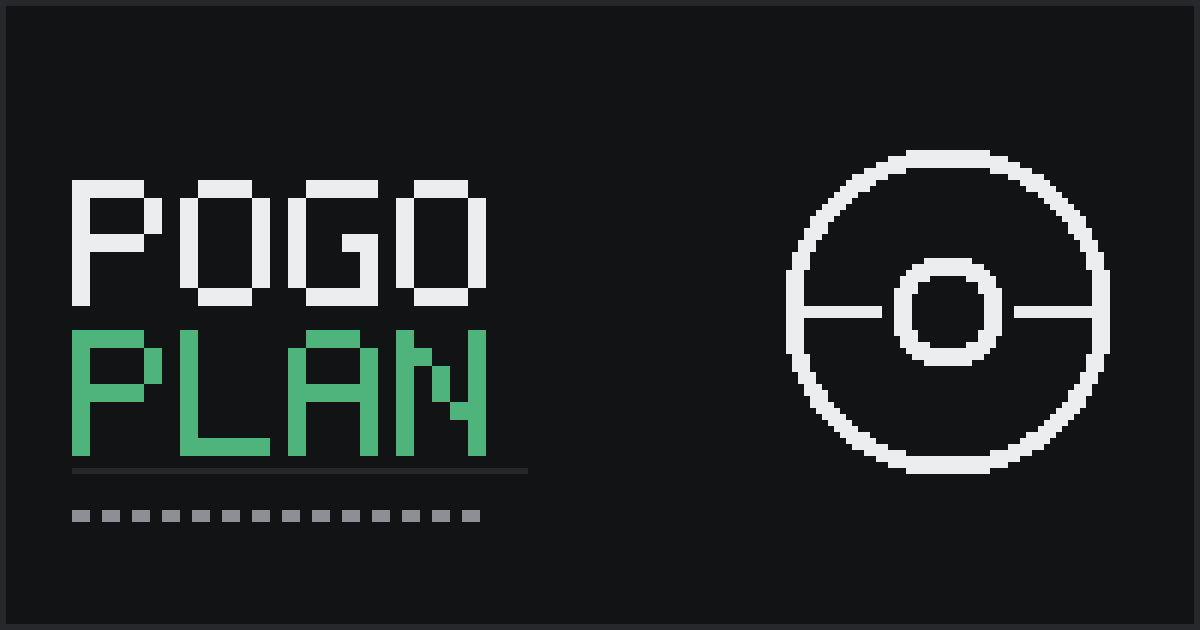
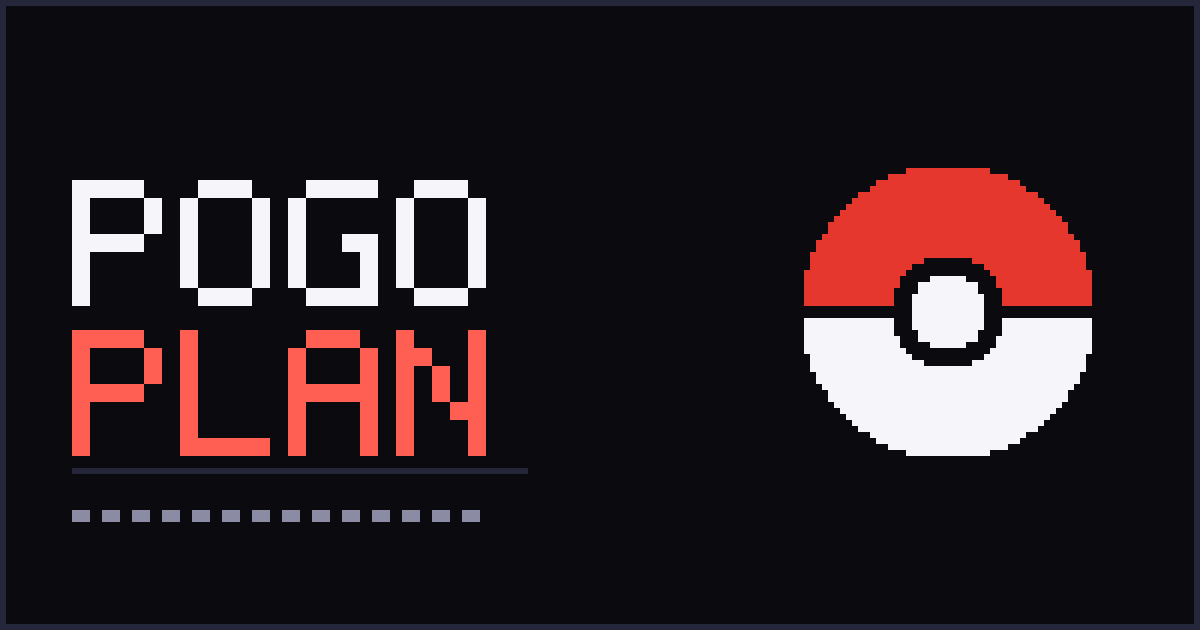
v3.7.0 키 컬러를 원작의 몬스터볼 빨강으로
스플래시의 몬스터볼과 공유 카드 그림이 이미 이 빨강인데 브랜드만 인디고로 남아,
같은 화면에서 셋이 따로 놀고 있었다.

팔레트 (styles/tokens.css)
  --brand · --accent  #6366f1 인디고 → #d63024   (다크 #818cf8 → #ff5f52)
  --brand-2           #a78bfa 바이올렛 → #b3231b  같은 계열 한 단 진한 빨강
  --warn              #dc2626 빨강 → #9f1239      빨강을 브랜드에 내준다. 여전히 붉지만
                                                  어둡기·색기가 갈려 "선택됨" 과 안 헷갈린다
  --point             #ec4899 핑크 → #2f6fd0      브랜드 빨강 바로 옆 색이라 못 쓴다.
                                                  빨강의 정반대라 특별한 것이 확실히 튀고,
                                                  옆에 놓이는 A티어(앰버)와도 안 싸운다
  --good(teal) · --caution(앰버) 는 그대로

그림과 글자의 빨강을 반 단 가른다
- 그림(스플래시 공 · 앱 아이콘 · 공유 카드)은 원작 값 #e5372e
- 글자로 쓰이는 토큰은 #d63024 — #e5372e 는 밝은 바탕(#fafafa)에서 명암비 4.1 이라
  작은 글씨가 흐려 보인다 (#d63024 는 4.7)

앱 아이콘을 채운 몬스터볼로 (backend/icon_gen.py)
- 선으로만 그린 흰 공은 어느 서비스인지 말해 주지 않는다.
  위 빨강 · 아래 흰색 · 가운데 검은 띠, 원작 그대로
- 띠는 단추 자리를 비운다 — 가로지르면 단추가 반으로 잘려 몬스터볼로 안 읽힌다
- 바탕도 v3.0.0 잉크블랙(#0a0a0f)으로. (18,19,21) 에 멈춰 있었다

공유 카드도 채운 몬스터볼 (backend/og_gen.py)
- 팔레트가 두 번 바뀌는 동안(v3.0.0 인디고 · v3.7.0 빨강) 이 파일만
  v2 시절 초록(#4fb37c)에 멈춰 있었다. 토큰 다섯을 현재 값으로
- 카카오톡·디스코드 미리보기는 작게 뜨는데, 선으로만 그린 공은 그 크기에서 그냥 동그라미다

수정
- theme-color 메타 두 줄이 v2 값(#ffffff · #121315)에 멈춰 있었다 → #fafafa · #0a0a0f
- 바탕을 한 단 더 죽였다 — 빨강은 인디고보다 눈에 잘 띈다.
  몬스터볼 투명도 .10 → .08, 홈 히어로 점 격자 24% → 16%

회귀 20개 전부 통과(147초). nav.js 의 팔레트 검사를 새 값으로 옮기고 둘을 더했다 —
--warn 이 브랜드와 다른 빨강인지, --point 가 빨강의 반대쪽인지

Claude-Session: https://claude.ai/code/session_01Xpam839c3kE5VjCkKzpNQJ

Changed region(s): [[0.6475, 0.2111, 0.925, 0.754], [0.0617, 0.5127, 0.4317, 0.7238]]

diff --git a/frontend/styles/tokens.css b/frontend/styles/tokens.css
@@ -12,21 +12,37 @@
          파란 기가 도는 슬레이트보다 차분하고, 포켓몬 타입색 열여덟 개와 덜 싸운다.
      (3) 브랜드가 초록에서 **인디고**로 간다. 레퍼런스의 성격을 결정하는 색이다.
          초록은 --t-grass(풀 타입)로만 남는다 — 브랜드색과 타입색이 같아서 생기던
-         "이게 선택 표시인가 풀 타입인가" 혼동도 같이 사라진다. */
+         "이게 선택 표시인가 풀 타입인가" 혼동도 같이 사라진다.
+
+   2026-09-12 v3.7.0 브랜드가 인디고에서 **몬스터볼 빨강**으로 간다 (#e5372e).
+     도트 디자인(v3.6.0)의 키 컬러를 원작에 맞춘다. 스플래시의 몬스터볼·공유 카드 그림이
+     이미 이 빨강이라, 브랜드만 인디고로 남아 셋이 따로 놀고 있었다.
+
+     빨강이 브랜드를 가져가면 자리가 겹치는 색이 둘이다. 둘 다 반 칸씩 옮긴다.
+       --warn   빨강 → **자주빛 진홍**(#9f1239). "나쁨" 은 여전히 붉지만, 브랜드의 밝은
+                주황빛 빨강과 어둡기·색기가 갈려 "선택됨" 과 안 헷갈린다.
+       --point  핑크 → **파랑**(#2f6fd0). 브랜드 빨강 바로 옆 색이라 못 쓴다.
+                빨강의 정반대라 "특별한 것(메가·전설·S티어)" 이 확실히 튀고,
+                바로 옆에 놓이는 A티어(--caution 앰버)와도 안 싸운다.
+     --brand-2 는 같은 계열의 진한 빨강으로 둔다 — 한 서비스 안의 다른 갈래(PvP)라
+     계열까지 바꿀 이유가 없다. --good(teal) · --caution(앰버) 은 그대로다. */
 :root {
   --bg: #fafafa; --fg: #0a0a0f; --muted: #64647a; --line: #e5e5eb; --surface: #ffffff; --hover: #f2f2f5;
   --line-2: #d4d4dc;    /* 한 단 진한 테두리 — 눌린 칸·활성 입력처럼 경계를 세워야 할 때 */
   --ink-2: #2a2a35;     /* 본문보다 한 단 흐린 글자 (카드 안 보조 문장) */
   --ink-4: #9b9bb0;     /* 가장 흐린 글자 — 자리표시·비활성 */
   /* 의미 색 — 이름이 곧 쓰임새다 */
-  --brand: #6366f1;     /* 브랜드 · 지금 보고 있는 곳 */
-  --brand-2: #a78bfa;   /* 보조 — 다른 갈래를 구분할 때 (PvP 등) */
-  --point: #ec4899;     /* 포인트 — 특별한 것 (메가·전설) */
-  --warn: #dc2626;      /* 경고 — 나쁨(하향·약점)·삭제 */
-  --caution: #d97706;   /* 주의 — 대기·즐겨찾기 ★ */
+  /* 몬스터볼 빨강. 그림(스플래시 공 · 앱 아이콘 · 공유 카드)은 원작 값 #e5372e 를 쓰고,
+     **글자로 쓰이는** 이 토큰만 반 단 어둡게 잡았다 — #e5372e 는 밝은 바탕(#fafafa)에서
+     명암비 4.1 이라 작은 글씨가 흐려 보인다. #d63024 는 4.7 로 기준을 넘으면서 같은 빨강이다 */
+  --brand: #d63024;     /* 브랜드 · 지금 보고 있는 곳 */
+  --brand-2: #b3231b;   /* 보조 — 다른 갈래를 구분할 때 (PvP 등). 같은 계열 한 단 진한 빨강 */
+  --point: #2f6fd0;     /* 포인트 — 특별한 것 (메가·전설·S티어). 빨강의 정반대 */
+  --warn: #9f1239;      /* 경고 — 나쁨(하향·약점)·삭제. 브랜드보다 어둡고 자주빛이 돈다 */
+  --caution: #d97706;   /* 주의 — 대기·A티어 */
   --off: #9b9bb0;       /* 비활성 */
   --good: #0d9488;      /* 좋음(상향·내성) — 전에는 브랜드 초록이 겸했다. 레퍼런스의 teal */
-  --accent: #6366f1;    /* = --brand. 예전부터 쓰던 이름이라 그대로 둔다 */
+  --accent: #d63024;    /* = --brand. 예전부터 쓰던 이름이라 그대로 둔다 */
 
   --t-normal:#a8a77a; --t-fire:#ee8130; --t-water:#6390f0; --t-grass:#7ac74c; --t-electric:#f7d02c; --t-ice:#96d9d6;
   --t-fighting:#c22e28; --t-poison:#a33ea1; --t-ground:#e2bf65; --t-flying:#a98ff3; --t-psychic:#f95587; --t-bug:#a6b91a;
@@ -57,21 +73,22 @@
   --shadow-hard: 0.4rem 0.4rem 0 0;   /* 흐림 0 — 색은 쓰는 쪽에서 붙인다 */
 }
 /* 다크 — 2026-09-12 v3.0.0 레퍼런스의 잉크블랙(#0a0a0f). 완전한 검정이 아니라 보라 기가
-   아주 옅게 도는 검정이라, 그 위에 올라가는 인디고·바이올렛이 탁해지지 않는다.
+   아주 옅게 도는 검정이라, 그 위에 올라가는 빨강이 탁해지지 않는다.
+   어두운 바탕에서는 #e5372e 가 무거워 보여 한 단 밝은 #ff5f52 를 쓴다.
    라이트와 같은 규칙으로 바탕(#0a0a0f) < 카드(#16161f) < 눌림(#1c1c28) 순으로 밝아진다 */
 @media (prefers-color-scheme: dark) {
   :root:not([data-theme="light"]) {
     --bg:#0a0a0f; --fg:#f5f5fa; --muted:#8b8ba3; --line:#26263a; --surface:#16161f; --hover:#1c1c28;
     --line-2:#33334d; --ink-2:#c9c9d6; --ink-4:#5c5c73;
-    --brand:#818cf8; --brand-2:#a78bfa; --point:#f472b6; --warn:#ef4444; --caution:#f59e0b; --off:#5c5c73;
-    --good:#2dd4bf; --accent:#818cf8;
+    --brand:#ff5f52; --brand-2:#ff8a80; --point:#6f9df0; --warn:#f43f5e; --caution:#f59e0b; --off:#5c5c73;
+    --good:#2dd4bf; --accent:#ff5f52;
   }
 }
 :root[data-theme="dark"] {
   --bg:#0a0a0f; --fg:#f5f5fa; --muted:#8b8ba3; --line:#26263a; --surface:#16161f; --hover:#1c1c28;
   --line-2:#33334d; --ink-2:#c9c9d6; --ink-4:#5c5c73;
-  --brand:#818cf8; --brand-2:#a78bfa; --point:#f472b6; --warn:#ef4444; --caution:#f59e0b; --off:#5c5c73;
-  --good:#2dd4bf; --accent:#818cf8;
+  --brand:#ff5f52; --brand-2:#ff8a80; --point:#6f9df0; --warn:#f43f5e; --caution:#f59e0b; --off:#5c5c73;
+  --good:#2dd4bf; --accent:#ff5f52;
 }
 
 /* 2026-09-11 v2.59.0 목록 격자 사다리 — 한 줄에 몇 개를 놓을지 여기 한 곳에서만 정한다.

diff --git a/tests/e2e/nav.js b/tests/e2e/nav.js
@@ -66,9 +66,12 @@ const ok = (name, cond, extra = '') => results.push([cond ? 'PASS' : 'FAIL', nam
   ok('토큰 --surface (흰 카드 #ffffff)', design.surface === '#ffffff', design.surface);
   ok('토큰 --line (#e5e5eb)', design.line === '#e5e5eb', design.line);
   ok('토큰 --muted (보라 기 도는 회색 #64647a)', design.muted === '#64647a', design.muted);
-  // 2026-09-12 v3.0.0 스타일 레퍼런스(yceffort.kr)의 인디고로 갈아끼웠다.
-  // 초록은 --t-grass(풀 타입)로만 남는다 — 브랜드색과 타입색이 같아 생기던 혼동도 같이 사라졌다
-  ok('토큰 --accent = 브랜드 인디고 (#6366f1)', design.accent === '#6366f1', design.accent);
+  // 2026-09-12 v3.7.0 키 컬러를 원작의 몬스터볼 빨강으로 (#e5372e). 스플래시 공·앱 아이콘·
+  // 공유 카드가 모두 이 값이라, 브랜드만 다른 색이면 같은 서비스로 안 읽힌다.
+  // 빨강이 브랜드를 가져가면서 --warn 은 자주빛 진홍으로, --point 는 파랑으로 반 칸씩 옮겼다
+  ok('토큰 --accent = 몬스터볼 빨강 (#d63024)', design.accent === '#d63024', design.accent);
+  ok('토큰 --warn 은 브랜드와 다른 빨강 (#9f1239)', design.warn === '#9f1239', design.warn);
+  ok('토큰 --point 는 빨강의 반대쪽 (#2f6fd0)', design.point === '#2f6fd0', design.point);
   ok('의미 색 여섯 벌 있음', ['brand', 'brand-2', 'point', 'warn', 'caution', 'off'].every((k) => design[k]),
     JSON.stringify({ brand: design.brand, warn: design.warn }));
   ok('토큰 --tap 이 손가락 크기 44px', design.tapPx === 44, `${design.tap} = ${design.tapPx}px`);
@@ -199,7 +202,7 @@ const ok = (name, cond, extra = '') => results.push([cond ? 'PASS' : 'FAIL', nam
   // 2026-09-09 v2.40.0 항목이 [아이콘][이름] 두 조각이라 이름 칸(.drawer__label)만 본다
   ok('드로어 현재 항목 표시', (await page.locator('.nav-menu [aria-current="page"] .drawer__label').textContent()) === '배틀 · PvP');
   const cur = await page.locator('.nav-menu [aria-current="page"]').evaluate((n) => getComputedStyle(n).color);
-  ok('현재 항목 = --accent (브랜드 인디고)', cur === 'rgb(99, 102, 241)', cur);
+  ok('현재 항목 = --accent (몬스터볼 빨강)', cur === 'rgb(214, 48, 36)', cur);
   ok('드로어 서비스 홈 항목', (await page.locator('.nav-menu a .drawer__label').first().textContent()) === '서비스 홈');
   await page.click('.nav-menu a:has-text("서비스 홈")');
   await page.waitForTimeout(400);
@@ -447,7 +450,8 @@ const ok = (name, cond, extra = '') => results.push([cond ? 'PASS' : 'FAIL', nam
     return { bg: cs.getPropertyValue('--bg').trim(), accent: cs.getPropertyValue('--accent').trim() };
   });
   ok('다크 --bg (잉크블랙 #0a0a0f)', dtok.bg === '#0a0a0f', dtok.bg);
-  ok('다크 --accent (#818cf8)', dtok.accent === '#818cf8', dtok.accent);
+  // 어두운 바탕에서는 #e5372e 가 무거워 보여 한 단 밝은 빨강을 쓴다
+  ok('다크 --accent (#ff5f52)', dtok.accent === '#ff5f52', dtok.accent);
   await dark.close();
 
   ok('페이지 오류 없음', errors.length === 0, errors.join(' | ').slice(0, 200));

diff --git a/frontend/scripts/components/release.js b/frontend/scripts/components/release.js
@@ -7,12 +7,18 @@
 // 즉 새 패치노트를 알리는 방법은 아래 RELEASE_VER 문자열을 바꾸는 것 하나뿐이고,
 // 날짜나 항목 개수를 비교하지 않으므로 문구만 손볼 때는 뱃지가 뜨지 않는다.
 // 패치노트 페이지를 열면 markReleaseSeen()이 현재 버전을 기록해 빨간 점이 사라진다.
-const RELEASE_VER = '2026-09-12-13';  // v3.6.1 도트 디자인 다듬기
+const RELEASE_VER = '2026-09-12-14';  // v3.7.0 키 컬러 빨강
 const RELEASE_HIDE_KEY = 'pogo_release_hide';
 // 패치노트 데이터: 최신 날짜가 위로 오도록 직접 정렬해서 적는다(코드에서 다시 정렬하지 않는다).
 // 사용자가 그대로 읽는 문구이므로 표현을 임의로 다듬지 않고, 지난 항목도 기록으로 남겨 둔다
 // 2026-09-09 v2.37.0 의 봇 트래픽 집계 제외는 사용자에게 보일 변화가 없어(집계만 영향) 여기 적지 않는다
 const RELEASE_NOTES = [
+  { date: '2026-09-12 · v3.7.0', items: [
+    '**키 컬러가 몬스터볼 빨강이 됐어요** — 원작 그 빨강입니다. 선택 표시 · 링크 · 지금 보고 있는 메뉴가 전부 이 색이에요',
+    '**앱 아이콘이 채운 몬스터볼로 바뀌었어요** — 선으로만 그린 흰 공이었는데, 홈 화면에 놓이는 그림이라 한눈에 읽혀야 해서요. 위 빨강 · 아래 흰색 · 가운데 검은 띠, 원작 그대로입니다',
+    '**링크 미리보기 카드도 같이 바꿨어요** — 카카오톡 · 디스코드에 붙였을 때 뜨는 그림입니다. 팔레트가 두 번 바뀌는 동안 이 그림만 옛 초록에 멈춰 있었어요',
+    '빨강이 키 컬러로 오면서 자리가 겹치는 색 둘을 옮겼어요 — **약점 · 하향 표시**는 한 단 어두운 자주빛 빨강으로, **메가 · 전설 · S티어 표시**는 파랑으로. 선택 표시와 안 헷갈리게 하려는 거예요',
+  ] },
   { date: '2026-09-12 · v3.6.1', items: [
     '**바탕을 흐리게 깔았어요** — 또렷한 점 격자가 글자 뒤에서 그대로 비쳐 읽기가 힘들었습니다. 점은 가장자리를 흐리게, 농도는 낮추고, 큰 몬스터볼에는 흐림을 걸었어요',
     '**글씨가 진짜 도트로 보여요** — 제목과 포켓몬 이름에 굵기를 주고 있었는데, 도트 글꼴에는 굵은 획이 없어서 브라우저가 획을 덧그리고 있었습니다. 그래서 도트가 번져 흐린 고딕처럼 보였어요',

diff --git a/frontend/styles/pixel.css b/frontend/styles/pixel.css
@@ -88,6 +88,8 @@ html:not(#_) .px-ball::after {
 .note .pxi, .prose .pxi, .detail__foot .pxi, .dex__hint .pxi { width: 1.4rem; height: 1.4rem; }
 /* 접이줄 머리는 flex 라 아이콘 뒤 빈칸이 통째로 사라진다 — 사이를 여기서 벌린다 */
 .detail__acc summary .pxi { margin-right: 0.6rem; }
+/* 빨강 칸(1)은 브랜드(몬스터볼 빨강)를 따른다 — 도감 기기·카드 무늬가 키 컬러와 같아야 한다 */
+:root { --pxi-1: var(--brand); }
 /* 흰 칸(3)은 판 색에 글자색을 한 스푼 섞는다. 판 색 그대로면 흰 카드 위에서 알(🥚)의
    속이 통째로 사라져 테두리만 남는다 — 어두운 화면에서도 같은 식으로 한 단 밝아진다 */
 :root { --pxi-3: color-mix(in srgb, var(--fg) 12%, var(--surface)); }
@@ -229,12 +231,12 @@ h1, h2, .page-head h2, .detail__name, .home__intro h2, .page__sec { line-height:
 .px-ball {
   position: absolute;
   border-radius: 50%;
-  opacity: .1;
+  opacity: .08;
   box-sizing: border-box;
   filter: blur(0.6rem);
-  /* 위 빨강 · 아래 흰색 · 테두리는 글자색 */
+  /* 위 빨강 · 아래 흰색 · 테두리는 글자색 — 빨강은 브랜드(=몬스터볼 빨강) 그 색이다 */
   border: var(--ball-w) solid var(--fg);
-  background: linear-gradient(var(--point) 0 50%, var(--surface) 50% 100%);
+  background: linear-gradient(var(--brand) 0 50%, var(--surface) 50% 100%);
 }
 /* 가운데 띠 — 테두리 두께만큼 밖으로 빼야 공이 한 줄로 이어진다 */
 .px-ball::before {
@@ -283,7 +285,7 @@ h1, h2, .page-head h2, .detail__name, .home__intro h2, .page__sec { line-height:
   .home__intro {
     border-width: var(--px);
     background:
-      radial-gradient(color-mix(in srgb, var(--brand) 24%, transparent) var(--px), transparent var(--px))
+      radial-gradient(color-mix(in srgb, var(--brand) 16%, transparent) var(--px), transparent var(--px))
         0 0 / 0.8rem 0.8rem,
       var(--surface);
   }

diff --git a/frontend/index.html b/frontend/index.html
@@ -92,8 +92,9 @@
     if (t === 'light' || t === 'dark') document.documentElement.setAttribute('data-theme', t);
   } catch (e) {}
 </script>
-<meta name="theme-color" media="(prefers-color-scheme: light)" content="#ffffff">
-<meta name="theme-color" media="(prefers-color-scheme: dark)" content="#121315">
+<!-- 2026-09-12 v3.7.0 팔레트가 두 번 바뀌는 동안 이 두 줄만 v2 시절 값에 멈춰 있었다 (tokens.css --bg) -->
+<meta name="theme-color" media="(prefers-color-scheme: light)" content="#fafafa">
+<meta name="theme-color" media="(prefers-color-scheme: dark)" content="#0a0a0f">
 <meta name="apple-mobile-web-app-capable" content="yes">
 <meta name="apple-mobile-web-app-title" content="POGO PLAN">
 <!-- 2026-09-03 GA4 사용 통계: backend/build.py의 GA_ID가 채워진 빌드에만 삽입됨 -->

diff --git a/backend/icon_gen.py b/backend/icon_gen.py
@@ -10,8 +10,13 @@ import zlib
 import os
 
 # 프런트 다크 테마의 CSS 변수와 같은 값을 쓴다 (RGBA)
-BACKGROUND_COLOR = (18, 19, 21, 255)       # --bg 다크
-FOREGROUND_COLOR = (236, 237, 238, 255)    # --fg 다크
+# 2026-09-12 v3.7.0 키 컬러를 몬스터볼 빨강으로 옮기면서 아이콘도 **채운 몬스터볼**로 바꿨다.
+# 선으로만 그린 흰 공은 어느 서비스인지 말해 주지 않는다 — 홈 화면에 놓이는 그림이라
+# 한눈에 "포켓몬" 으로 읽혀야 한다. 위 빨강 · 아래 흰색 · 가운데 검은 띠, 원작 그대로다
+BACKGROUND_COLOR = (10, 10, 15, 255)       # --bg 다크 (v3.0.0 잉크블랙)
+FOREGROUND_COLOR = (245, 245, 250, 255)    # --fg 다크 — 공의 아래 절반
+BRAND_COLOR = (229, 55, 46, 255)           # --brand 몬스터볼 빨강 (#e5372e) — 공의 위 절반
+STROKE_COLOR = (10, 10, 15, 255)           # 테두리·띠. 바탕과 같은 값이라 공만 떠 보인다
 
 
 # size × size 몬스터볼 아이콘을 그려 PNG 원본 스캔라인 바이트를 돌려준다.
@@ -30,13 +35,22 @@ def render_raw_scanlines(size):
             delta_y = y - center_y + 0.5
             distance = (delta_x * delta_x + delta_y * delta_y) ** 0.5
             color = BACKGROUND_COLOR
-            # 바깥 원: 반지름에서 선 두께의 절반 안쪽까지
+            # 안쪽부터 바깥으로 한 겹씩 얹는다 — 나중에 칠한 것이 위로 온다
+            if distance < outer_radius + stroke_width / 2:
+                # 공의 몸통: 가운데 띠를 기준으로 위는 빨강, 아래는 흰색
+                color = BRAND_COLOR if delta_y < 0 else FOREGROUND_COLOR
+            # 바깥 테두리: 반지름에서 선 두께의 절반 안쪽까지
             on_outer_ring = abs(distance - outer_radius) < stroke_width / 2
-            # 가운데 가로줄: 원 안쪽에서만 그리고, 버튼 주변은 살짝 여유(0.9)를 두고 비운다
-            on_center_band = abs(delta_y) < stroke_width / 2 and distance < outer_radius and abs(delta_x) > button_radius + stroke_width * 0.9
+            # 가운데 가로줄: 원 안쪽에서만 그리고, 버튼 자리는 비운다 —
+            # 띠가 단추를 가로지르면 단추가 반으로 잘려 몬스터볼로 안 읽힌다
+            on_center_band = (abs(delta_y) < stroke_width / 2 and distance < outer_radius
+                              and abs(delta_x) > button_radius + stroke_width * 0.4)
             # 가운데 버튼 테두리
-            on_button = abs(distance - button_radius) < stroke_width / 2
-            if on_outer_ring or on_center_band or on_button:
+            on_button_ring = abs(distance - button_radius) < stroke_width / 2
+            if on_outer_ring or on_center_band or on_button_ring:
+                color = STROKE_COLOR
+            # 버튼 속은 흰색 — 띠가 지나가도 단추가 뚫려 보여야 몬스터볼로 읽힌다
+            elif distance < button_radius:
                 color = FOREGROUND_COLOR
             scanline.extend(color)
         raw_scanlines.extend(scanline)

diff --git a/backend/og_gen.py b/backend/og_gen.py
@@ -26,11 +26,14 @@ WIDTH, HEIGHT = 1200, 630
 CELL = 6                      # 도트 한 칸 = 6px. 200 × 105 칸짜리 격자가 된다
 
 # 다크 테마 토큰과 같은 값 (frontend/styles/tokens.css)
-BG = (18, 19, 21)
-FG = (236, 237, 238)
-MUTED = (140, 143, 148)
-ACCENT = (79, 179, 124)       # --accent 다크
-LINE = (38, 40, 43)
+# 2026-09-12 v3.7.0 팔레트가 두 번 바뀌는 동안(v3.0.0 인디고 · v3.7.0 몬스터볼 빨강)
+# 이 파일만 v2 시절 초록에 멈춰 있었다. 공유 카드가 서비스와 다른 색이면 눌러 들어온 순간 어긋난다
+BG = (10, 10, 15)             # --bg 다크 (잉크블랙)
+FG = (245, 245, 250)          # --fg 다크
+MUTED = (139, 139, 163)       # --muted 다크
+ACCENT = (255, 95, 82)        # --accent 다크 — 몬스터볼 빨강
+LINE = (38, 38, 58)           # --line 다크
+BALL_RED = (229, 55, 46)      # --brand 라이트 (#e5372e) — 공의 위 절반은 원작 그대로
 
 # 5×7 픽셀 글꼴 — 필요한 글자만 직접 찍는다. 각 줄의 '#' 이 켜진 픽셀
 FONT = {
@@ -77,7 +80,9 @@ def draw_text(canvas, text, cx, cy, scale, color, spacing=1):
 
 
 # 몬스터볼 — icon_gen.py 와 같은 모양이되 도트 격자에 맞춰 계단지게 그린다.
-# 매끈한 원을 그리면 이 이미지 안에서 그것만 튄다
+# 매끈한 원을 그리면 이 이미지 안에서 그것만 튄다.
+# 2026-09-12 v3.7.0 선으로만 그리던 것을 **채운다** — 위 빨강 · 아래 흰색 · 가운데 검은 띠.
+# 카카오톡·디스코드 미리보기는 작게 뜨는데, 선으로만 그린 공은 그 크기에서 그냥 동그라미다
 def draw_ball(canvas, center_cx, center_cy, radius_cells):
     stroke = max(2, radius_cells // 7)
     button = max(2, radius_cells // 3)
@@ -85,11 +90,18 @@ def draw_ball(canvas, center_cx, center_cy, radius_cells):
         for cx in range(center_cx - radius_cells - 1, center_cx + radius_cells + 2):
             dx, dy = cx - center_cx + 0.5, cy - center_cy + 0.5
             dist = (dx * dx + dy * dy) ** 0.5
+            if dist > radius_cells + stroke / 2:
+                continue
+            # 안쪽부터 바깥으로 한 겹씩 — 나중에 칠한 것이 위로 온다
+            color = BALL_RED if dy < 0 else FG
             on_ring = abs(dist - radius_cells) < stroke / 2
-            on_band = abs(dy) < stroke / 2 and dist < radius_cells and abs(dx) > button + stroke
-            on_button = abs(dist - button) < stroke / 2
-            if on_ring or on_band or on_button:
-                cell_rect(canvas, cx, cy, 1, 1, FG)
+            on_band = abs(dy) < stroke / 2 and dist < radius_cells and abs(dx) > button + stroke * 0.4
+            on_button_ring = abs(dist - button) < stroke / 2
+            if on_ring or on_band or on_button_ring:
+                color = BG            # 테두리·띠는 바탕색 — 공만 떠 보인다
+            elif dist < button:
+                color = FG            # 단추 속은 흰색
+            cell_rect(canvas, cx, cy, 1, 1, color)
 
 
 def write_png(canvas, path):

diff --git a/backend/build.py b/backend/build.py
@@ -110,7 +110,7 @@ json.dump(pvp_all, open('data/pvp_all.json', 'w', encoding='utf-8'), ensure_asci
 
 # ── frontend/ 의 CSS·JS를 순서대로 인라인해 단일 dist/index.html 조립 ──
 # 순서가 곧 캐스케이드(CSS)·실행 순서(JS)이므로 새 파일은 여기 목록에 추가
-APP_VERSION = 'v3.6.1'  # 도트 디자인 다듬기 — 바탕 흐리기 · 가짜 굵기 제거 · 글씨·여백 검수
+APP_VERSION = 'v3.7.0'  # 키 컬러를 원작의 몬스터볼 빨강으로 · 앱 아이콘·공유 카드도 채운 몬스터볼
 # 2026-09-05 v2.7.3 빌드 채널 — 'prod'(기본) / 'dev'. dev 브랜치 워크플로(.github/workflows/deploy-dev.yml)가 BUILD_CHANNEL=dev 로 부른다.
 # dev 빌드는 (1) 버전 배지에 -dev 를 붙여 화면에서 구분되고 (2) GA 스니펫을 넣지 않아 통계가 섞이지 않고
 # (3) robots.txt 를 전부 차단 + <meta name="robots" content="noindex"> 로 검색 색인을 막는다. 나머지는 prod 와 동일

diff --git a/README.md b/README.md
@@ -46,6 +46,7 @@
 
 | 버전 | 날짜 | 내용 |
 |---|---|---|
+| **v3.7.0** | 2026-09-12 | **키 컬러를 원작의 몬스터볼 빨강으로** — 스플래시 공·공유 카드가 이미 이 빨강인데 브랜드만 인디고라 셋이 따로 놀았다. `--brand`·`--accent` `#6366f1` → `#d63024`(다크 `#ff5f52`). 빨강이 브랜드를 가져가면서 자리가 겹치는 색 둘을 반 칸씩 옮겼다 — `--warn` `#dc2626` → `#9f1239`(자주빛 진홍, "선택됨" 과 안 헷갈리게), `--point` `#ec4899` → `#2f6fd0`(파랑, 옆에 놓이는 A티어 앰버와 안 싸우게). **그림과 글자의 빨강을 반 단 가른다** — 그림은 원작 값 `#e5372e`, 글자 토큰은 `#d63024`(밝은 바탕 명암비 4.1 → 4.7). **앱 아이콘·공유 카드를 채운 몬스터볼로**(`icon_gen.py`·`og_gen.py`) — 선으로만 그린 흰 공은 작게 뜨면 그냥 동그라미다. `og_gen.py` 는 v2 시절 초록에 멈춰 있었다. **(수정)** `theme-color` 메타 두 줄도 v2 값이었다 |
 | **v3.6.1** | 2026-09-12 | **도트 디자인 다듬기** — 실제 화면을 보고 고쳤다. **(1) 바탕이 글자를 가렸다**: 배경을 `#px-bg` 한 겹으로 빼고 점은 흐린 원(`transparent 65%`)·농도 7% → 4.5%, 몬스터볼은 `blur(0.6rem)`. **(2) 도트 글꼴에 가짜 굵기가 씌워져 있었다** — 갈무리에는 Bold 가 없어 700 을 주면 브라우저가 획을 덧그린다(도트가 번져 흐린 고딕이 된다). 본문 전체 400, 산문(`Pretendard`)의 `b`·`strong` 만 700. **(3) 글씨·여백** — 제목 줄간 1.05 → 1.35배, 부제·안내문 11~12.5 → 13px, 꼬리 글씨 줄간 22 → 17px, 구역 제목 위 40 → 20px, 서비스 홈의 빈 컨트롤 줄(60px) 제거. **(4) 남아 있던 둥근 모서리** — 이름 목록 대신 뿌리에서 한 번에(`html:not(#_) body *`), 되돌리는 것은 프로필 사진·알림 점·바탕 몬스터볼뿐. **(5) 문단 속 이모지**를 도트 아이콘으로(과녁 추가, 31종) |
 | **v3.6.0** | 2026-09-12 | **도트(픽셀) 디자인** — 보여 주는 그림이 전부 96px 도트인데 껍데기만 매끈했다. 글꼴 갈무리(본문 Galmuri11 · 제목 Galmuri14 · 숫자 GalmuriMono11, 긴 산문만 Pretendard), 모서리 0 · 테두리 2px · 흐림 0 그림자 · `steps()` 전환. 규칙은 `styles/pixel.css` 한 파일 — `STYLES` 에서 한 줄 빼면 되돌아간다. **도트 아이콘 30종**(`components/pxicon.js`) — 메뉴 · 홈 타일 · 버튼의 이모지를 12칸 격자 SVG 로. 표의 키가 이모지라 호출부는 `pxIcon(icon) ?? icon` 한 줄. **바탕에 몬스터볼 둘** — `steps(8)` 로 느리게 떠다닌다(좁은 화면 · 동작 줄이기에서는 없음). **불러오는 화면**은 공을 던진 뒤의 기우뚱. **검색 색인 표시 제거** — 실서비스 `robots` 줄과 JSON-LD 를 뺐다(og · twitter · canonical 은 유지). **(수정)** `pixel.css` 가 `.app-nav` 의 `position: fixed` 를 덮어써 사이드바가 흘러내리던 것 |
 | **v3.5.0** | 2026-09-12 | **도감 안 검색 칸 제거** — v2.66.0 에 문구로 성격을 갈랐지만 생김새가 같은 입력칸 둘이 한 화면에 있는 것 자체가 문제였다. 헤더 검색이 어차피 포켓몬을 찾아 상세로 데려간다. 세대 칩은 그대로. 제목 옆으로 끌어올리던 음수 마진 규칙도 삭제. **D-MAX 보기 전환 추가** — 카드 격자를 줄로(`pogo_max_cols`, 레이드 PvE 와 같은 규칙). **[이번 주 보스] ↔ 타입 필터 32px → 8px** — `.boss__acc` 마진 12px + `.controls` 패딩 20px 이 겹쳐 있었다. 아코디언이 뜨는 화면에서만 좁힌다(`.is-on`) |

diff --git a/CHANGELOG.md b/CHANGELOG.md
@@ -5,6 +5,49 @@
 버전 규칙: `vMAJOR.MINOR.PATCH` — 큰 기능은 MINOR(두 번째 자리), 상세 기능·버그 수정은 PATCH(세 번째 자리) 증가.
 항목 종류: `추가` 새 기능 · `변경` 기존 동작 변경 · `수정` 버그 수정 · `데이터` 수동 데이터 갱신
 
+## v3.7.0 — 2026-09-12
+
+### 변경 — 키 컬러를 원작의 몬스터볼 빨강으로
+
+도트 디자인(v3.6.0)의 키 컬러를 원작에 맞춘다. 스플래시의 몬스터볼과 공유 카드 그림이 이미 이 빨강인데 브랜드만 인디고로 남아, 같은 화면에서 셋이 따로 놀고 있었다.
+
+| 토큰 | 전 | 후 | 왜 |
+| --- | --- | --- | --- |
+| `--brand` · `--accent` | `#6366f1` 인디고 | **`#d63024`** | 몬스터볼 빨강 |
+| `--brand-2` | `#a78bfa` 바이올렛 | `#b3231b` | 같은 계열 한 단 진한 빨강 — 한 서비스 안의 다른 갈래(PvP)라 계열까지 바꿀 이유가 없다 |
+| `--warn` | `#dc2626` 빨강 | `#9f1239` | 빨강을 브랜드에 내준다. "나쁨" 은 여전히 붉지만 어둡기·색기가 갈려 "선택됨" 과 안 헷갈린다 |
+| `--point` | `#ec4899` 핑크 | `#2f6fd0` | 브랜드 빨강 바로 옆 색이라 못 쓴다. 빨강의 정반대라 특별한 것(메가·전설·S티어)이 확실히 튀고, 바로 옆에 놓이는 A티어(`--caution` 앰버)와도 안 싸운다 |
+
+다크는 어두운 바탕에서 `#e5372e` 가 무거워 보여 한 단 밝은 `#ff5f52` 를 쓴다. `--good`(teal) · `--caution`(앰버)은 그대로다.
+
+**그림과 글자의 빨강을 반 단 가른다** — 그림(스플래시 공 · 앱 아이콘 · 공유 카드)은 원작 값 `#e5372e`, 글자로 쓰이는 토큰은 `#d63024`. `#e5372e` 는 밝은 바탕(`#fafafa`)에서 명암비가 4.1 이라 작은 글씨가 흐려 보인다 (`#d63024` 는 4.7).
+
+### 변경 — 앱 아이콘이 채운 몬스터볼로 (`backend/icon_gen.py`)
+
+선으로만 그린 흰 공은 어느 서비스인지 말해 주지 않는다. 홈 화면에 놓이는 그림이라 한눈에 "포켓몬" 으로 읽혀야 한다.
+
+- 위 빨강 · 아래 흰색 · 가운데 검은 띠. 띠는 단추 자리를 비운다 — 가로지르면 단추가 반으로 잘려 몬스터볼로 안 읽힌다
+- 바탕도 v3.0.0 잉크블랙(`#0a0a0f`)으로 맞췄다. `(18, 19, 21)` 로 멈춰 있었다
+
+### 변경 — 공유 카드도 채운 몬스터볼 (`backend/og_gen.py`)
+
+**팔레트가 두 번 바뀌는 동안(v3.0.0 인디고 · v3.7.0 빨강) 이 파일만 v2 시절 초록(`#4fb37c`)에 멈춰 있었다.** 공유 카드가 서비스와 다른 색이면 눌러 들어온 순간 결이 어긋난다.
+
+- 토큰 다섯을 현재 값으로 (`BG` · `FG` · `MUTED` · `ACCENT` · `LINE`)
+- 몬스터볼을 선에서 **채움**으로 — 카카오톡·디스코드 미리보기는 작게 뜨는데, 선으로만 그린 공은 그 크기에서 그냥 동그라미다
+
+### 수정 — `theme-color` 메타 두 줄이 v2 값에 멈춰 있었다
+
+브라우저 주소창 색이다. `#ffffff` · `#121315` → 현재 `--bg` 인 `#fafafa` · `#0a0a0f`.
+
+### 변경 — 바탕을 한 단 더 죽였다
+
+빨강은 인디고보다 눈에 잘 띈다. 바탕 몬스터볼 투명도 .10 → .08, 서비스 홈 히어로의 점 격자 24% → 16%.
+
+### 회귀
+
+20개 전부 통과(145초). `nav.js` 의 팔레트 검사를 새 값으로 옮기고 둘을 더했다 — `--warn` 이 브랜드와 다른 빨강인지, `--point` 가 빨강의 반대쪽인지.
+
 ## v3.6.1 — 2026-09-12
 
 도트 디자인을 실제 화면에서 보고 다듬었다. 바탕이 글자를 가렸고, 글꼴은 도트로 안 보였고, 둥근 자리가 남아 있었다.
